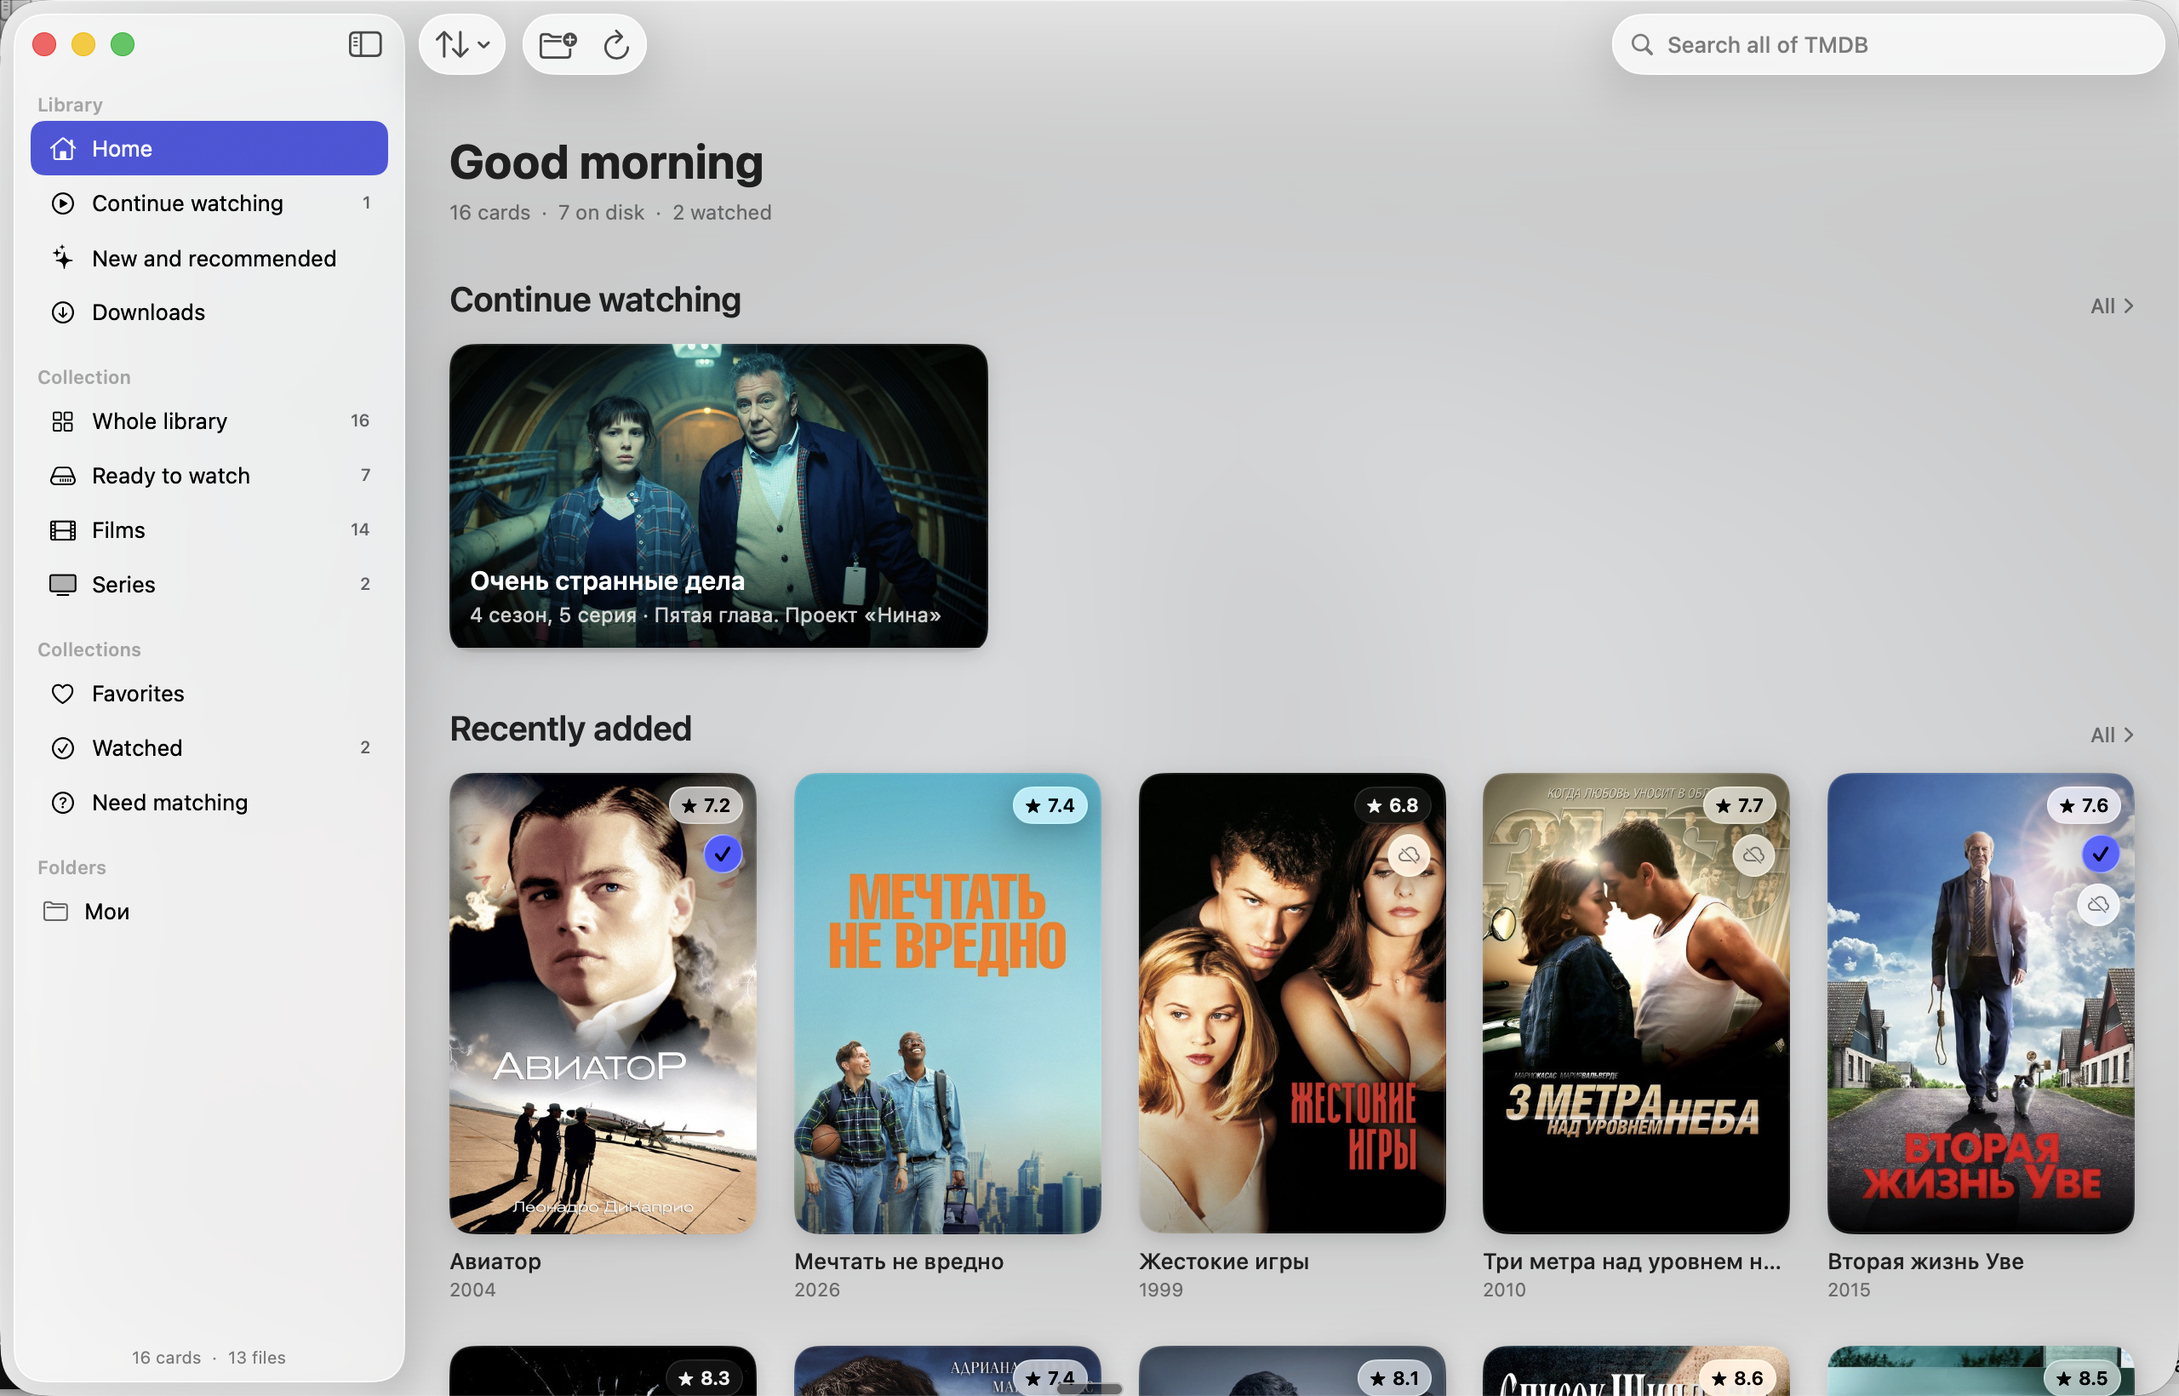
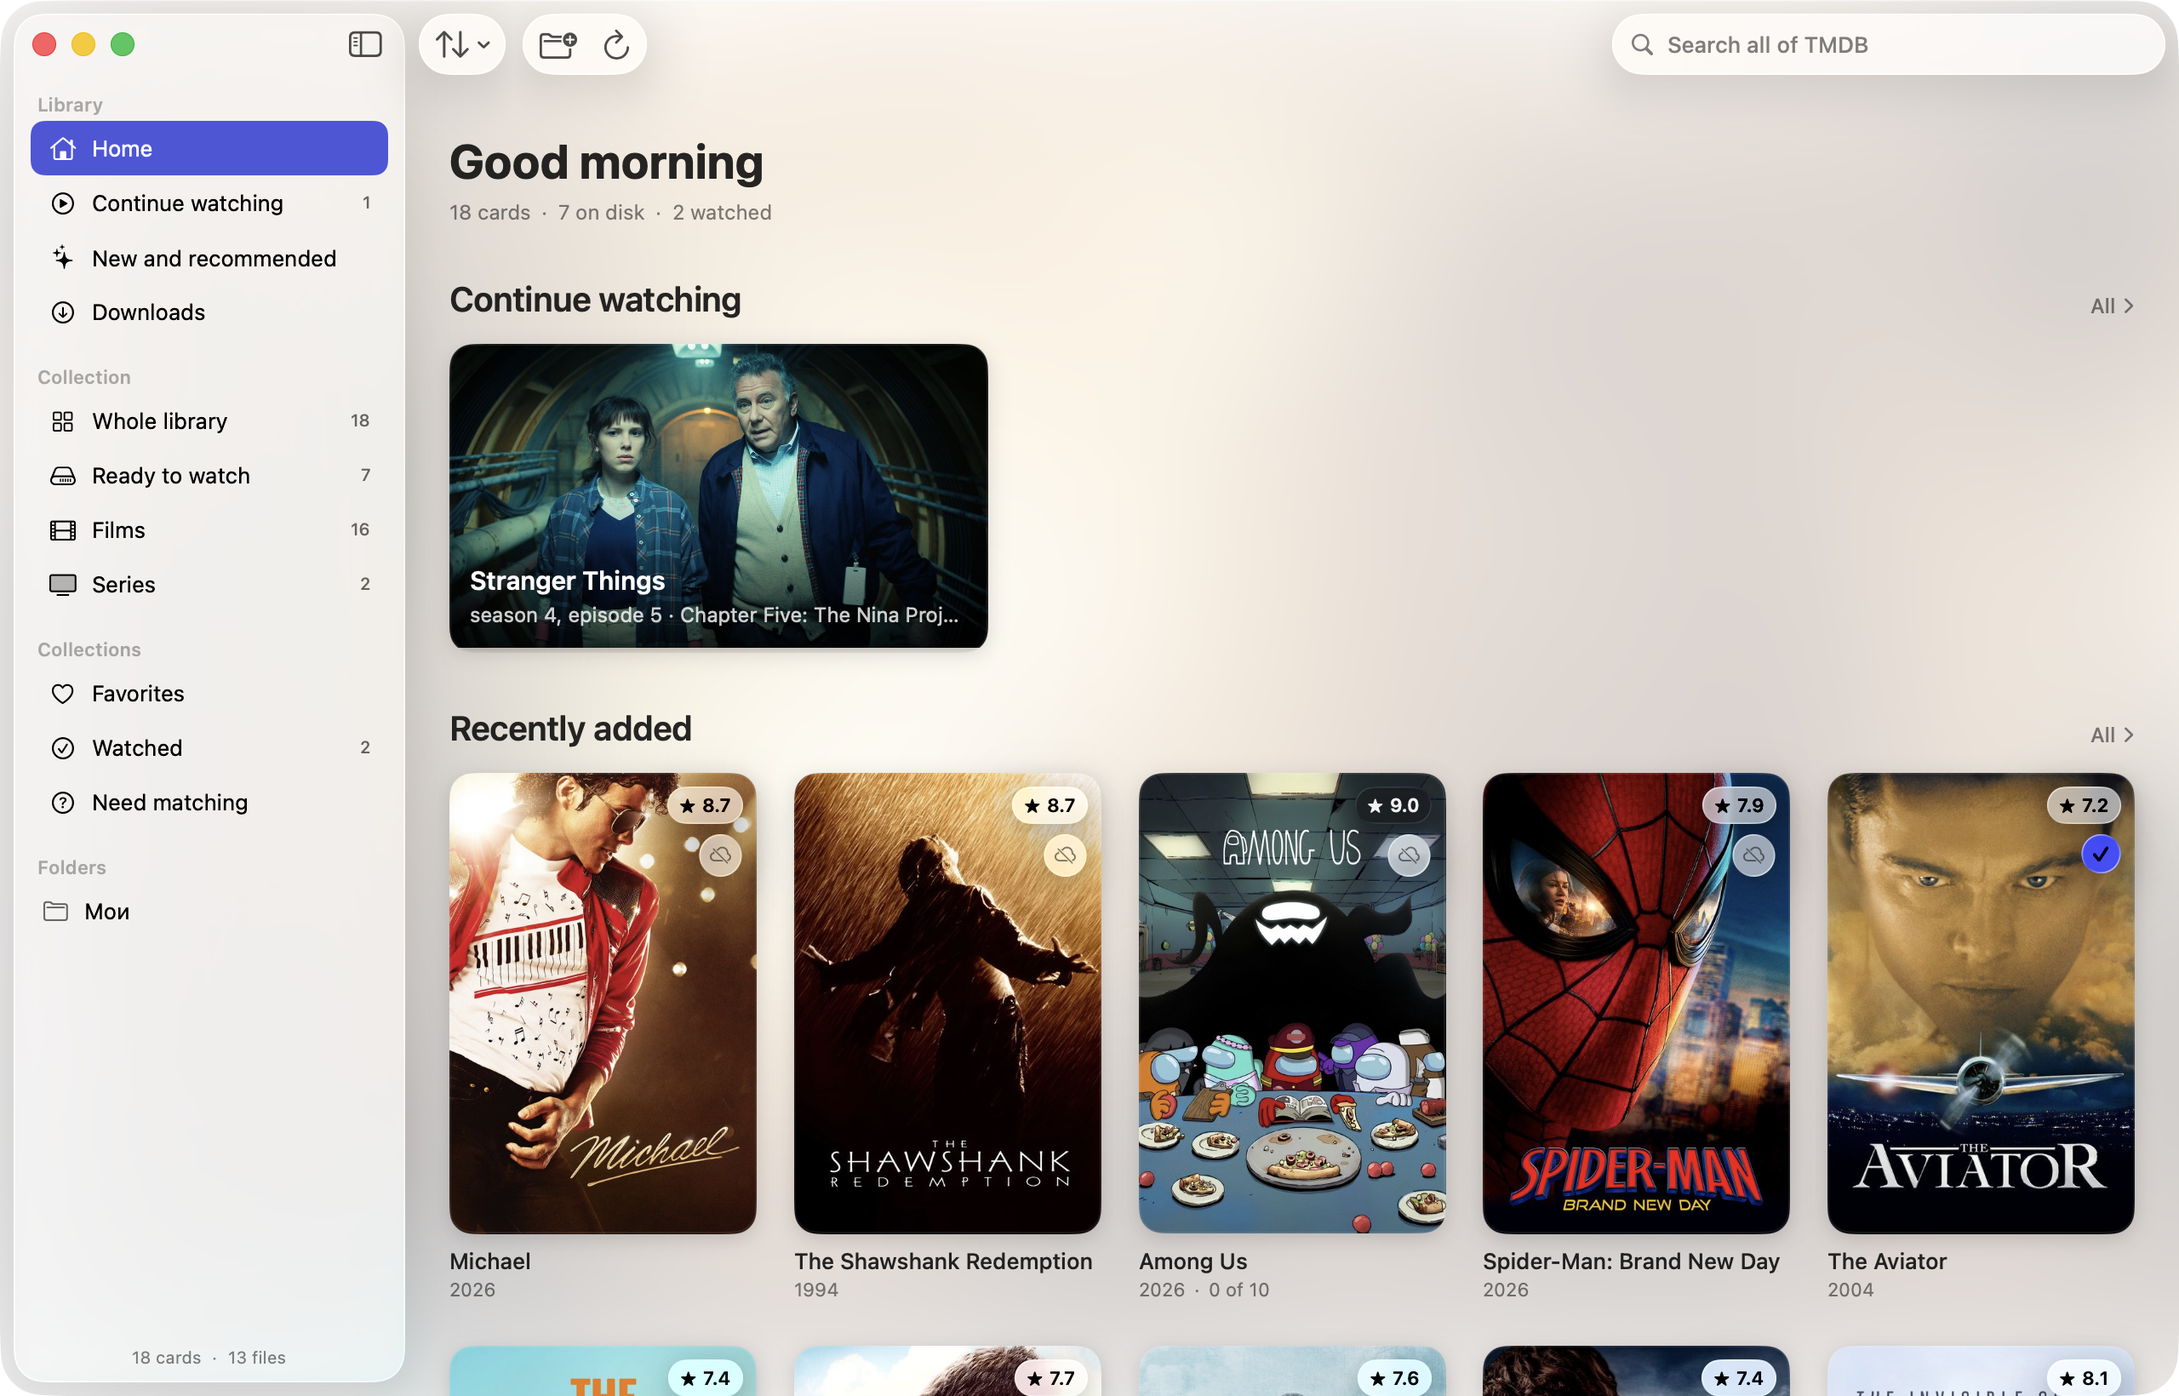
Оформленный dmg, обновление метаданных и починка строк с двумя подстановками
Образ теперь собирается со своим фоном, размером окна и разложенными иконками —
Scripts/make-dmg.sh, фон рисуется Scripts/dmg-background.swift.

Строки с двумя и более подстановками не переводились вообще: компилятор кладёт
в каталог ключ с номерами («%1$lld сезон, %2$lld серия»), а String(localized:)
ищет его без номеров. Шесть строк молча падали обратно на русский; теперь у
каждой есть ключ в том виде, в каком его ищет рантайм.

⌥⌘R перечитывает метаданные всех карточек на текущем языке: после смены языка
старые карточки иначе остаются на прежнем. Файлы, серии и отметки о просмотре
не трогаются — проверено на 18 карточках, 49 отметок, ни одной потери.

Скриншоты в README пересняты на английском, вместе с метаданными.

diff --git a/Scripts/dmg-background.swift b/Scripts/dmg-background.swift
@@ -1,0 +1,100 @@
+import AppKit
+import CoreGraphics
+import Foundation
+
+// Рисует фон окна DMG: тёмный градиент, подсвеченные места под иконки и стрелка
+// между ними. Запускается один раз, результат лежит в docs/dmg-background.png.
+// Высота — ровно видимая часть окна: заголовок и полоса состояния сверху и снизу
+// съедают около 52 точек, и фон под ними всё равно не виден.
+let width = 640, height = 400
+let scale = 2
+let size = CGSize(width: width * scale, height: height * scale)
+
+guard let context = CGContext(data: nil,
+                              width: Int(size.width), height: Int(size.height),
+                              bitsPerComponent: 8, bytesPerRow: 0,
+                              space: CGColorSpace(name: CGColorSpace.sRGB)!,
+                              bitmapInfo: CGImageAlphaInfo.premultipliedLast.rawValue) else {
+    fatalError("не создался контекст")
+}
+context.scaleBy(x: CGFloat(scale), y: CGFloat(scale))
+
+// Фон: тёплый тёмный градиент, как у иконки приложения.
+let space = CGColorSpace(name: CGColorSpace.sRGB)!
+let background = CGGradient(colorsSpace: space,
+                            colors: [CGColor(red: 0.09, green: 0.09, blue: 0.11, alpha: 1),
+                                     CGColor(red: 0.16, green: 0.14, blue: 0.17, alpha: 1)] as CFArray,
+                            locations: [0, 1])!
+context.drawLinearGradient(background,
+                           start: CGPoint(x: 0, y: CGFloat(height)),
+                           end: CGPoint(x: CGFloat(width), y: 0),
+                           options: [])
+
+// Тёплое свечение слева — там, где стоит иконка приложения: намёк на луч проектора.
+let glow = CGGradient(colorsSpace: space,
+                      colors: [CGColor(red: 1.0, green: 0.86, blue: 0.62, alpha: 0.16),
+                               CGColor(red: 1.0, green: 0.86, blue: 0.62, alpha: 0)] as CFArray,
+                      locations: [0, 1])!
+context.drawRadialGradient(glow,
+                           startCenter: CGPoint(x: 170, y: height - 205), startRadius: 0,
+                           endCenter: CGPoint(x: 170, y: height - 205), endRadius: 260,
+                           options: [])
+
+/// Мягкая площадка под иконку, чтобы было видно, куда её класть.
+func plate(at point: CGPoint) {
+    let rect = CGRect(x: point.x - 62, y: point.y - 62, width: 124, height: 124)
+    context.setFillColor(CGColor(gray: 1, alpha: 0.05))
+    context.addPath(CGPath(roundedRect: rect, cornerWidth: 26, cornerHeight: 26, transform: nil))
+    context.fillPath()
+    context.setStrokeColor(CGColor(gray: 1, alpha: 0.09))
+    context.setLineWidth(1)
+    context.addPath(CGPath(roundedRect: rect, cornerWidth: 26, cornerHeight: 26, transform: nil))
+    context.strokePath()
+}
+let appSpot = CGPoint(x: 170, y: CGFloat(height) - 205)
+let folderSpot = CGPoint(x: 470, y: CGFloat(height) - 205)
+plate(at: appSpot)
+plate(at: folderSpot)
+
+// Стрелка между площадками.
+context.setStrokeColor(CGColor(gray: 1, alpha: 0.22))
+context.setLineWidth(2)
+context.setLineDash(phase: 0, lengths: [6, 6])
+context.move(to: CGPoint(x: appSpot.x + 78, y: appSpot.y))
+context.addLine(to: CGPoint(x: folderSpot.x - 92, y: folderSpot.y))
+context.strokePath()
+context.setLineDash(phase: 0, lengths: [])
+context.setFillColor(CGColor(gray: 1, alpha: 0.35))
+let tip = CGPoint(x: folderSpot.x - 78, y: folderSpot.y)
+context.move(to: tip)
+context.addLine(to: CGPoint(x: tip.x - 12, y: tip.y + 7))
+context.addLine(to: CGPoint(x: tip.x - 12, y: tip.y - 7))
+context.closePath()
+context.fillPath()
+
+/// Текст по центру заданной точки.
+func draw(_ text: String, at point: CGPoint, size fontSize: CGFloat, weight: NSFont.Weight, alpha: CGFloat) {
+    let attributes: [NSAttributedString.Key: Any] = [
+        .font: NSFont.systemFont(ofSize: fontSize, weight: weight),
+        .foregroundColor: NSColor(white: 1, alpha: alpha),
+    ]
+    let line = NSAttributedString(string: text, attributes: attributes)
+    let bounds = line.size()
+    let graphics = NSGraphicsContext(cgContext: context, flipped: false)
+    NSGraphicsContext.saveGraphicsState()
+    NSGraphicsContext.current = graphics
+    line.draw(at: CGPoint(x: point.x - bounds.width / 2, y: point.y - bounds.height / 2))
+    NSGraphicsContext.restoreGraphicsState()
+}
+
+draw("Lumière", at: CGPoint(x: CGFloat(width) / 2, y: CGFloat(height) - 62), size: 30, weight: .semibold, alpha: 0.92)
+draw("Drag Lumière into your Applications folder",
+     at: CGPoint(x: CGFloat(width) / 2, y: CGFloat(height) - 96), size: 13, weight: .regular, alpha: 0.5)
+
+guard let image = context.makeImage() else { fatalError("не получилась картинка") }
+let output = URL(fileURLWithPath: CommandLine.arguments.count > 1 ? CommandLine.arguments[1] : "docs/dmg-background.png")
+let rep = NSBitmapImageRep(cgImage: image)
+rep.size = NSSize(width: width, height: height)   // 2x: логический размер вдвое меньше пиксельного
+guard let data = rep.representation(using: .png, properties: [:]) else { fatalError("не сохранилось") }
+try data.write(to: output)
+print("готово: \(output.path) — \(Int(size.width))×\(Int(size.height)) пикселей")

diff --git a/VideoClient/App/LibraryCoordinator.swift b/VideoClient/App/LibraryCoordinator.swift
@@ -223,6 +223,42 @@ final class LibraryCoordinator {
         }
     }
 
+    /// Перечитывает метаданные всех подтверждённых карточек на текущем языке.
+    ///
+    /// Нужно после смены языка: у карточек, добавленных раньше, названия и описания
+    /// остаются такими, какими их скачали. Файлы, серии и отметки о просмотре
+    /// не трогаются — обновляются только тексты, постеры и состав.
+    func refreshMetadata() async {
+        guard await client.hasKey else {
+            lastError = String(localized: "Добавьте API-ключ TMDB в настройках, чтобы подтянуть постеры и описания.")
+            return
+        }
+        let targets = store.entries.filter { $0.tmdbID != nil }
+        guard !targets.isEmpty else { return }
+
+        store.isBusy = true
+        defer { store.isBusy = false; store.statusMessage = nil }
+
+        let matcher = Matcher(client: client)
+        var updatedCount = 0
+        for (index, entry) in targets.enumerated() {
+            guard let tmdbID = entry.tmdbID else { continue }
+            store.statusMessage = String(localized: "Обновляю метаданные: \(entry.displayTitle) (\(index + 1)/\(targets.count))")
+            do {
+                let refreshed = try await matcher.apply(candidate: MatchCandidate(entry: entry, tmdbID: tmdbID),
+                                                        to: entry)
+                store.upsert(refreshed)
+                updatedCount += 1
+            } catch {
+                lastError = (error as? LocalizedError)?.errorDescription ?? error.localizedDescription
+                if case TMDBError.unauthorized = error { break }
+                if case TMDBError.missingKey = error { break }
+            }
+        }
+        store.saveNow()
+        store.statusMessage = String(localized: "Метаданные обновлены: \(updatedCount)")
+    }
+
     // MARK: - Рекомендации
 
     /// Полки рекомендаций: их показывают и «Главная», и «Новое и рекомендации».

diff --git a/VideoClient/TMDB/TMDBModels.swift b/VideoClient/TMDB/TMDBModels.swift
@@ -266,3 +266,19 @@ extension MatchCandidate {
             || character.contains("himself") || character.contains("herself")
     }
 }
+
+extension MatchCandidate {
+    /// Кандидат, собранный из уже привязанной карточки: нужен, чтобы перечитать
+    /// её метаданные с TMDB — например, после смены языка.
+    nonisolated init(entry: MediaEntry, tmdbID: Int) {
+        id = tmdbID
+        kind = entry.kind
+        title = entry.displayTitle
+        originalTitle = entry.originalTitle
+        year = entry.displayYear
+        overview = entry.overview
+        posterPath = entry.posterPath
+        rating = entry.rating
+        score = 1
+    }
+}

diff --git a/VideoClient/App/VideoClientApp.swift b/VideoClient/App/VideoClientApp.swift
@@ -84,6 +84,11 @@ struct VideoClientApp: App {
                 Task { await coordinator.rebuildFromFilenames() }
             }
             .keyboardShortcut("r", modifiers: [.command, .shift])
+
+            Button("Обновить метаданные на текущем языке") {
+                Task { await coordinator.refreshMetadata() }
+            }
+            .keyboardShortcut("r", modifiers: [.command, .option])
         }
 
         // Поиск. ⌃F просили специально; ⌘F оставлен как привычный синоним.

diff --git a/README.ru.md b/README.ru.md
@@ -44,8 +44,9 @@ xattr -dr com.apple.quarantine /Applications/Lumiere.app
   нормальным именем, а плейлист превращается в сезон, разложенный как `Сериал / Сезон N`.
 - **Два поиска.** Один фильтрует раздел библиотеки, второй, в правом верхнем углу, ищет по всему
   TMDB — можно открыть карточку того, чего у вас ещё нет.
-- **Русский и английский.** Интерфейс следует языку системы; язык метаданных TMDB настраивается
-  отдельно.
+- **Русский и английский.** Интерфейс следует языку системы, а метаданные TMDB — за интерфейсом,
+  пока язык не выбран явно. Карточки, добавленные раньше, остаются на своём языке: ⌥⌘R перечитывает
+  их все на текущем.
 
 ## Скриншоты
 
@@ -150,6 +151,7 @@ brew install yt-dlp ffmpeg
 | ⌘O | Добавить папку |
 | ⌘R | Обновить библиотеку |
 | ⇧⌘R | Пересобрать карточки из имён файлов |
+| ⌥⌘R | Обновить метаданные на текущем языке |
 | ⌘, | Настройки |
 
 ## Как устроено

diff --git a/README.md b/README.md
@@ -43,8 +43,9 @@ Requires macOS 26 on Apple Silicon. After that the app updates itself — see [U
   with a proper name; a playlist becomes a whole season laid out as `Series / Season N`.
 - **Two searches.** One filters the library section you are in; the one in the top right corner
   searches all of TMDB, so you can open a card for something you do not have yet.
-- **Russian and English.** The interface follows the system language; TMDB metadata language
-  is a separate setting.
+- **Russian and English.** The interface follows the system language, and TMDB metadata follows the
+  interface unless you pick a language explicitly. Cards added earlier keep the language they were
+  fetched in — ⌥⌘R re-reads them all in the current one.
 
 ## Screenshots
 
@@ -149,6 +150,7 @@ not replace.
 | ⌘O | Add folder |
 | ⌘R | Refresh library |
 | ⇧⌘R | Rebuild cards from file names |
+| ⌥⌘R | Refresh metadata in the current language |
 | ⌘, | Settings |
 
 ## How it works
